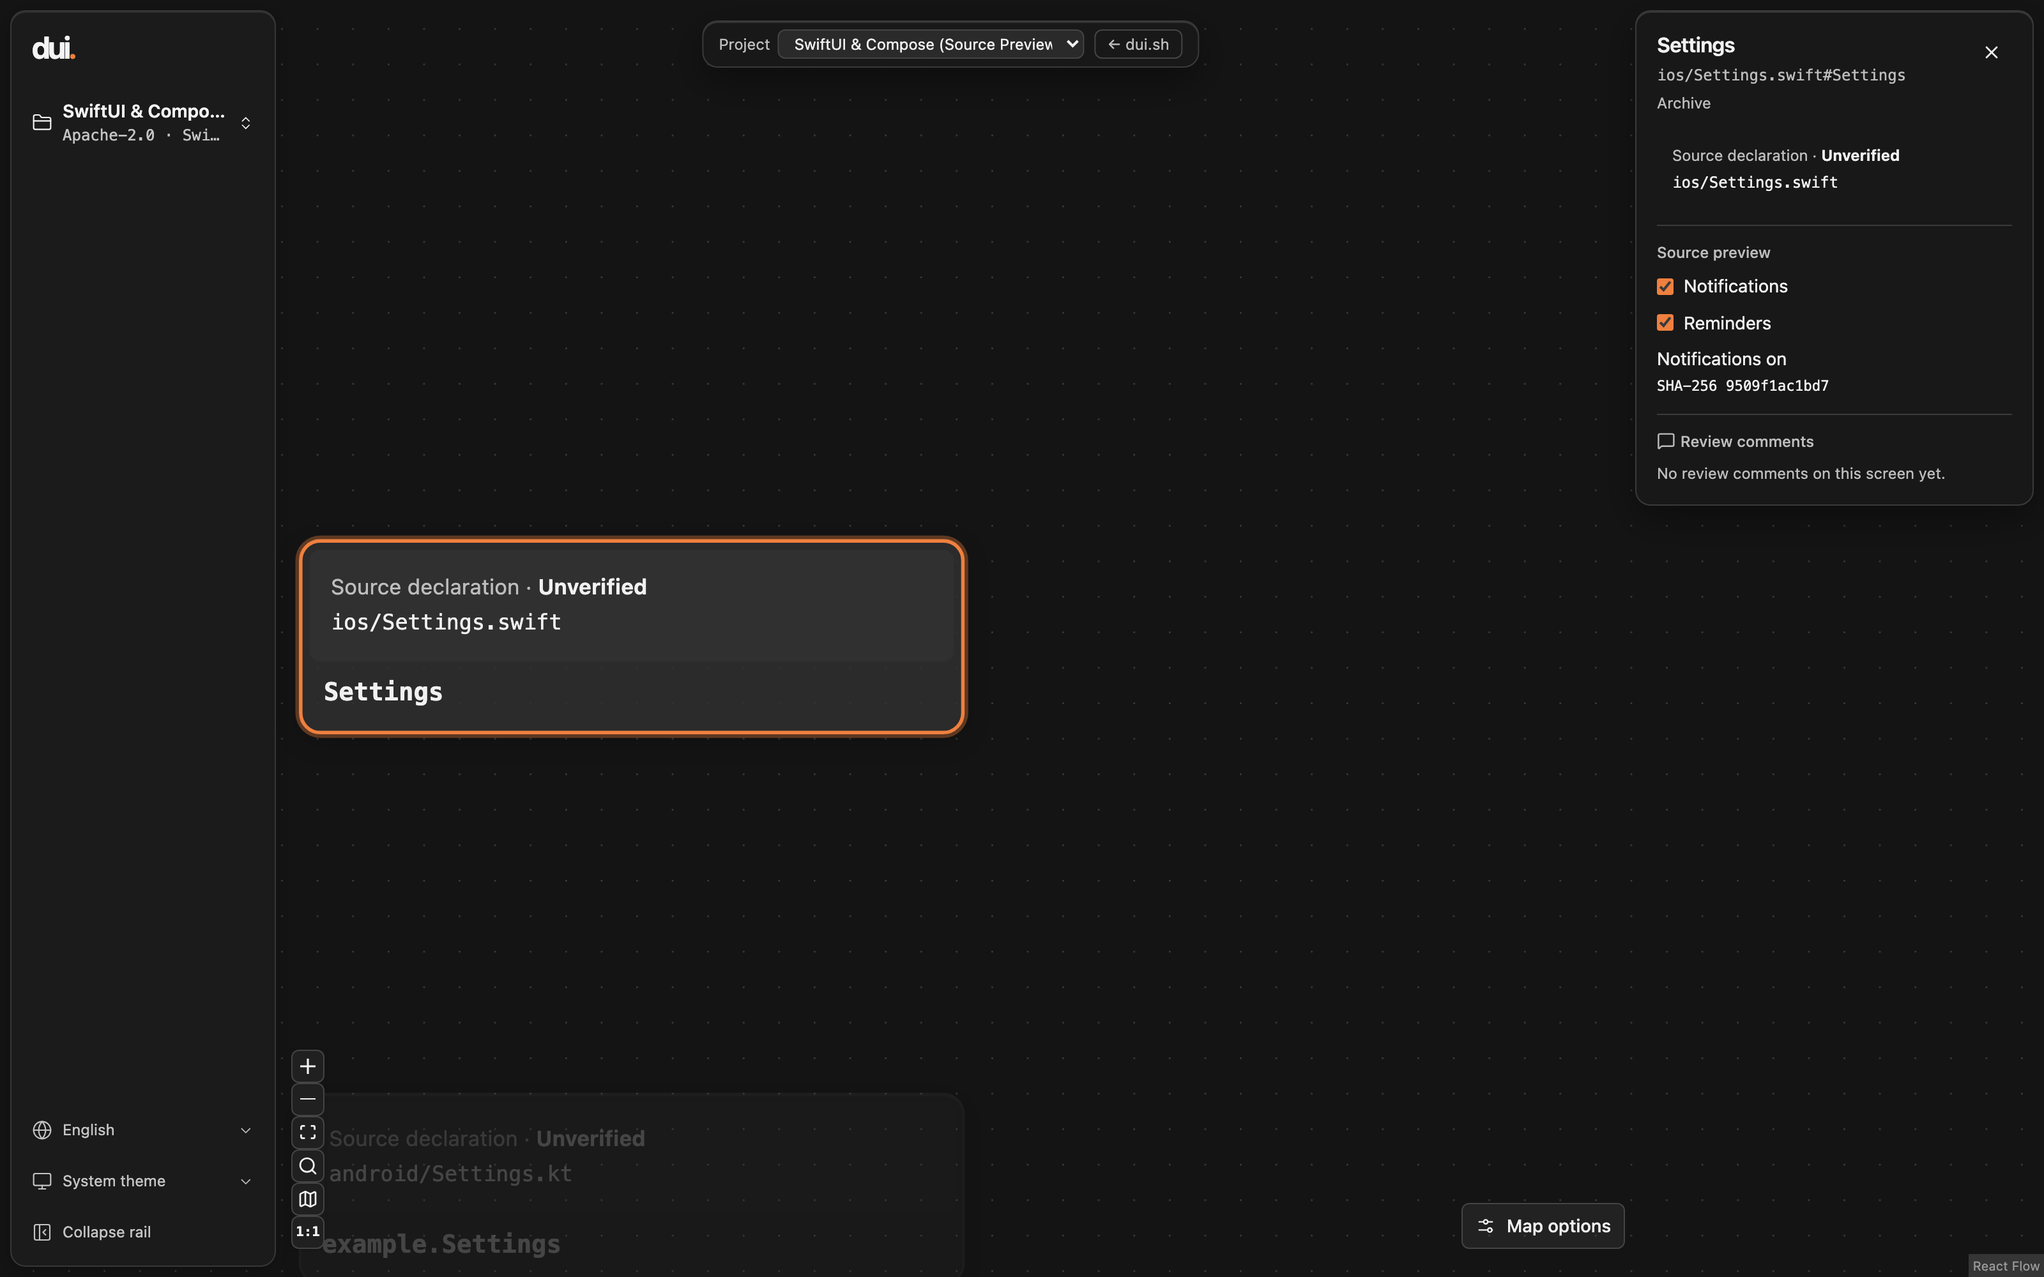
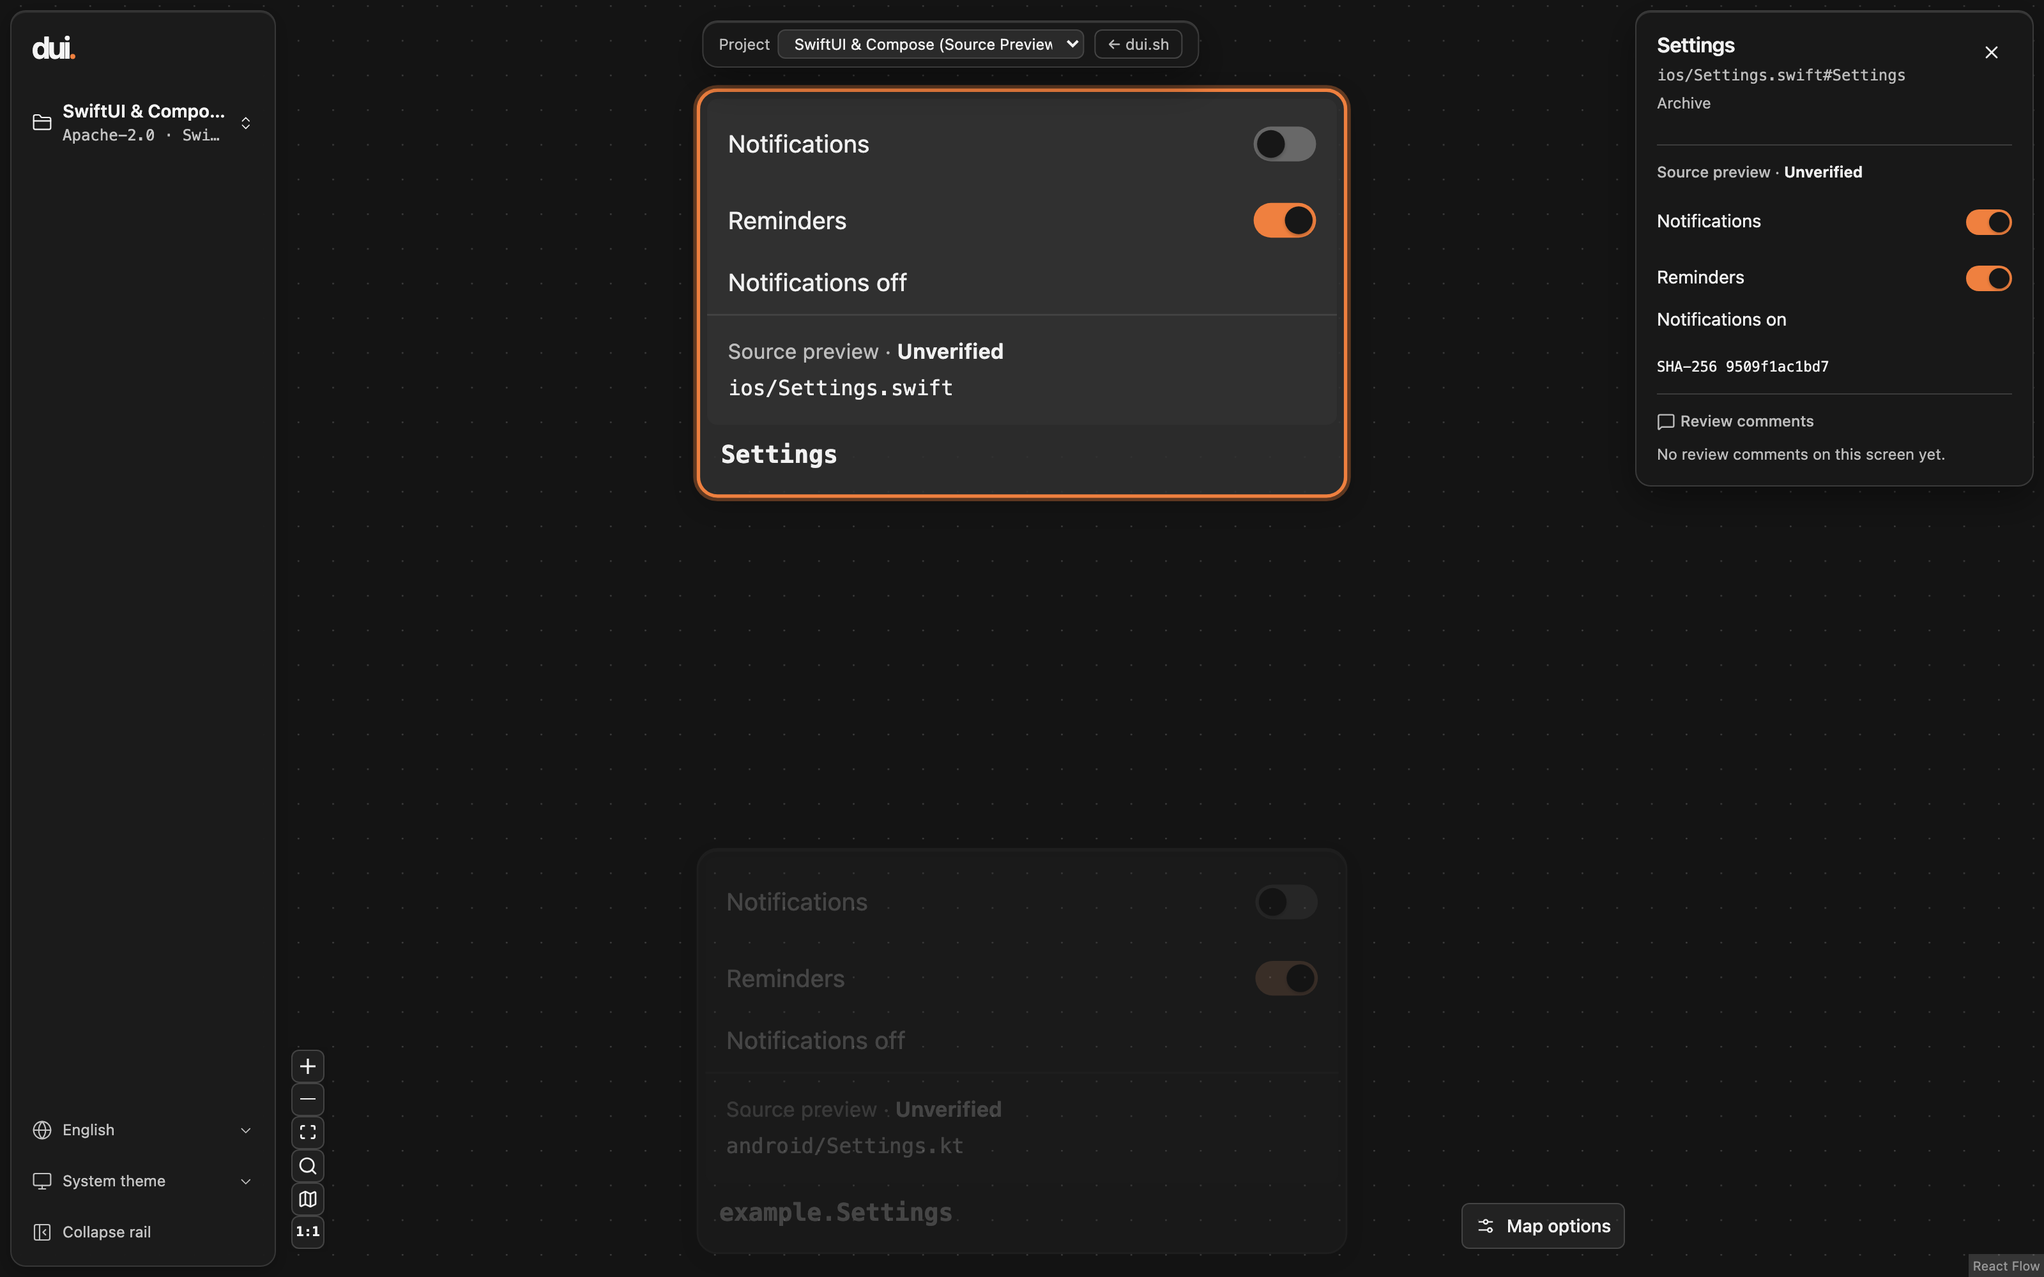
feat(canvas): show source preview snapshots on map cards
Cards with a ready source preview now draw their first observed frame
read-only, labeled "Source preview · Unverified" with the source path,
on the desktop map and the mobile deck. Missing, stale and unsupported
previews show their reason on the card. The inspector no longer repeats
the declaration block, and observed toggles render as switches.

Closes #262

diff --git a/apps/canvas/src/components/SourcePreviewPanel.tsx b/apps/canvas/src/components/SourcePreviewPanel.tsx
@@ -2,46 +2,53 @@ import { useState } from "react";
 import type { PreviewItem, SourcePreview } from "../data/sourcePreview";
 import { useI18n } from "../i18n/LocaleContext";
 
-function Contents({
-  items,
+type Activate = (control: number) => void;
+
+function Toggle({
+  label,
+  checked,
+  control,
   activate,
 }: {
-  items: PreviewItem[];
-  activate: (control: number) => void;
+  label: string;
+  checked: boolean;
+  control: number;
+  activate?: Activate;
 }) {
   const { t } = useI18n();
+  // Map cards are read-only snapshots inside a clickable card; only the inspector operates them.
+  if (!activate)
+    return (
+      <span className="preview-toggle">
+        <span>{label}</span>
+        <span className="preview-switch" data-checked={checked ? "true" : "false"} />
+      </span>
+    );
+  return (
+    <label className="preview-toggle">
+      <span>{label}</span>
+      <input
+        type="checkbox"
+        role="switch"
+        className="preview-switch"
+        aria-checked={checked}
+        aria-label={label || t.previewSwitch(control + 1)}
+        checked={checked}
+        onChange={() => activate(control)}
+      />
+    </label>
+  );
+}
+
+function Contents({ items, activate }: { items: PreviewItem[]; activate?: Activate }) {
   return items.map((item, i) => {
     if (item.kind === "text") return <span key={i}>{item.text}</span>;
-    if (item.kind === "switch")
-      return (
-        <label key={i}>
-          <input
-            type="checkbox"
-            role="switch"
-            aria-checked={item.checked}
-            aria-label={item.label || t.previewSwitch(item.control + 1)}
-            checked={item.checked}
-            onChange={() => activate(item.control)}
-          />
-          {item.label}
-        </label>
-      );
+    if (item.kind === "switch") return <Toggle key={i} {...item} activate={activate} />;
     // The Compose adapter emits a text caption beside its switch in a Row.
     const caption = item.children.find((child) => child.kind === "text");
     const toggle = item.children.find((child) => child.kind === "switch");
     if (item.kind === "row" && item.children.length === 2 && toggle && !toggle.label && caption)
-      return (
-        <label key={i}>
-          {caption.text}
-          <input
-            type="checkbox"
-            role="switch"
-            aria-checked={toggle.checked}
-            checked={toggle.checked}
-            onChange={() => activate(toggle.control)}
-          />
-        </label>
-      );
+      return <Toggle key={i} {...toggle} label={caption.text} activate={activate} />;
     return (
       <div key={i} className={"preview-" + item.kind}>
         <Contents items={item.children} activate={activate} />
@@ -49,13 +56,28 @@ function Contents({
     );
   });
 }
+
+/** The first observed frame, drawn without controls for map cards. */
+export function SourcePreviewSnapshot({ items }: { items: PreviewItem[] }) {
+  return (
+    <div className="source-preview-snapshot preview-column" aria-hidden="true">
+      <Contents items={items} />
+    </div>
+  );
+}
+
 export function SourcePreviewPanel({ preview }: { preview: SourcePreview }) {
   const { t } = useI18n();
   const [index, setIndex] = useState(0);
   const frame = preview.status === "ready" ? preview.frames[index] : undefined;
   return (
     <section className="source-preview-panel inspector-section" aria-label={t.sourcePreview}>
-      <h3>{t.sourcePreview}</h3>
+      <h3>
+        {t.sourcePreview} ·{" "}
+        <span className="capture-status" data-status="unverified">
+          {t.unverified}
+        </span>
+      </h3>
       {preview.status === "ready" && frame ? (
         <>
           <div className="preview-column">

diff --git a/site/site.js b/site/site.js
@@ -101,9 +101,9 @@
         "2D Inline Diff: Compare captures directly on the map with element-level change highlights, pixel-difference overlays, and screen verification evidence.",
       tabSourcePreview: "SwiftUI & Compose",
       tabSourcePreviewAlt:
-        "dui source map with compiled SwiftUI and Compose component cards and interactive switches in the inspector",
+        "dui source map whose compiled SwiftUI and Compose cards show their first observed frame, with the switches operated in the inspector",
       tabSourcePreviewCaption:
-        "Portable Source Preview: Compile self-contained SwiftUI and Compose entries with their official toolchains and operate observed switches directly on the map.",
+        "Portable Source Preview: Compile self-contained SwiftUI and Compose entries with their official toolchains. Each card shows the first observed frame; operate its switches in the inspector.",
       tabDesktopOverview: "macOS Desktop",
       tabDesktopOverviewAlt:
         "dui native GPUI macOS desktop viewer with transparent TitleBar, 11-screen full-page map, screen search, and gutter edges",
@@ -196,7 +196,7 @@
       tabSourcePreviewAlt:
         "공식 컴파일러로 빌드한 SwiftUI·Compose 컴포넌트 카드와 인스펙터의 조작 가능한 스위치를 보여 주는 소스 지도",
       tabSourcePreviewCaption:
-        "포터블 소스 미리보기: SwiftUI·Compose 컴포넌트를 공식 툴체인으로 컴파일해, 관찰된 스위치를 지도 카드에서 바로 조작합니다.",
+        "포터블 소스 미리보기: SwiftUI·Compose 컴포넌트를 공식 툴체인으로 컴파일합니다. 카드에는 관찰된 첫 화면이 보이고, 스위치는 인스펙터에서 조작합니다.",
       tabDesktopOverview: "macOS 데스크톱",
       tabDesktopOverviewAlt:
         "투명 TitleBar, 11개 전체 페이지 지도, 화면 검색, 거터 연결선을 갖춘 네이티브 GPUI macOS 데스크톱 뷰어",
@@ -289,7 +289,7 @@
       tabSourcePreviewAlt:
         "展示经官方工具链编译的 SwiftUI 与 Compose 组件卡片及检查器内可交互开关的 dui 源码地图",
       tabSourcePreviewCaption:
-        "便携式源码预览：使用官方工具链编译自包含的 SwiftUI 与 Compose 组件，在界面地图卡片上直接操作已观测到的开关。",
+        "便携式源码预览：使用官方工具链编译自包含的 SwiftUI 与 Compose 组件。卡片显示观测到的首个画面，开关在检查器中操作。",
       tabDesktopOverview: "macOS 桌面端",
       tabDesktopOverviewAlt:
         "带有透明 TitleBar、11 个整页界面地图、界面搜索与避让通道连线的原生 GPUI macOS 桌面查看器",

diff --git a/apps/canvas/src/preview.css b/apps/canvas/src/preview.css
@@ -319,6 +319,7 @@ h2 {
 .source-frame {
   background: var(--muted);
   border-radius: var(--radius-control);
+  overflow: hidden;
 }
 .native-source-evidence {
   display: grid;
@@ -2625,23 +2626,95 @@ h2 {
   height: auto;
 }
 
-.source-preview-panel .preview-column,
-.source-preview-panel .preview-row,
-.source-preview-panel label {
+.preview-column,
+.preview-row {
   display: flex;
   gap: var(--space-2);
+  min-width: 0;
 }
-.source-preview-panel .preview-column {
+.preview-column {
   flex-direction: column;
 }
-.source-preview-panel .preview-row,
-.source-preview-panel label {
+.preview-row {
   align-items: center;
 }
-.source-preview-panel label {
+/* Outranks `.inspector label`, which stacks form labels. */
+.preview-column .preview-toggle {
+  display: flex;
+  align-items: center;
+  justify-content: space-between;
+  gap: var(--space-3);
+  min-height: 2.75rem;
   margin: 0;
 }
+.preview-switch {
+  appearance: none;
+  position: relative;
+  flex: none;
+  width: 2.25rem;
+  height: 1.25rem;
+  margin: 0;
+  border-radius: 999px;
+  background: color-mix(in srgb, var(--muted-foreground) 40%, transparent);
+  transition: background-color 120ms ease;
+}
+.preview-switch::before {
+  content: "";
+  position: absolute;
+  top: 0.125rem;
+  left: 0.125rem;
+  width: 1rem;
+  height: 1rem;
+  border-radius: 999px;
+  background: var(--background);
+  box-shadow: 0 1px 2px rgb(0 0 0 / 0.25);
+  transition: transform 120ms ease;
+}
+.preview-switch:checked,
+.preview-switch[data-checked="true"] {
+  background: var(--primary);
+}
+.preview-switch:checked::before,
+.preview-switch[data-checked="true"]::before {
+  transform: translateX(1rem);
+}
+.preview-switch:focus-visible {
+  outline: 2px solid var(--ring);
+  outline-offset: 2px;
+}
+input.preview-switch {
+  cursor: pointer;
+}
+@media (prefers-reduced-motion: reduce) {
+  .preview-switch,
+  .preview-switch::before {
+    transition: none;
+  }
+}
 .source-preview-panel {
-  accent-color: var(--primary);
   overflow-wrap: anywhere;
+}
+.source-preview-panel .preview-column {
+  gap: 0;
+  margin-bottom: var(--space-2);
+}
+.source-preview-snapshot {
+  gap: 0;
+  padding: var(--space-2) var(--space-3);
+  border-bottom: 1px solid var(--border);
+  color: var(--foreground);
+  overflow-wrap: anywhere;
+}
+.source-preview-snapshot.preview-column .preview-toggle {
+  min-height: 2.25rem;
+}
+.source-preview-reason {
+  margin: 0;
+  padding: 0 var(--space-3) var(--space-3);
+  color: var(--muted-foreground);
+  font-size: var(--text-meta);
+  overflow-wrap: anywhere;
+}
+.source-preview-reason code {
+  font-family: var(--font-mono);
 }

diff --git a/apps/canvas/src/components/NativeSourceEvidence.tsx b/apps/canvas/src/components/NativeSourceEvidence.tsx
@@ -1,18 +1,45 @@
 import type { NativeSource } from "../data/overview";
+import type { SourcePreview } from "../data/sourcePreview";
 import { useI18n } from "../i18n/LocaleContext";
+import { SourcePreviewSnapshot } from "./SourcePreviewPanel";
+
+/** Map card body for a declaration without a capture: its preview snapshot, if any, then its evidence. */
+export function SourceCardBody({
+  source,
+  preview,
+}: {
+  source: NativeSource;
+  preview?: SourcePreview;
+}) {
+  const { t } = useI18n();
+  const frame = preview?.status === "ready" ? preview.frames[0] : undefined;
+  return (
+    <>
+      {frame && <SourcePreviewSnapshot items={frame.items} />}
+      <NativeSourceEvidence source={source} sourceOnly preview={Boolean(frame)} />
+      {preview && preview.status !== "ready" && (
+        <p className="source-preview-reason">
+          <strong>{t.previewStatus[preview.status]}</strong> · <code>{preview.reason}</code>
+        </p>
+      )}
+    </>
+  );
+}
 
 export function NativeSourceEvidence({
   source,
   sourceOnly,
+  preview = false,
 }: {
   source: NativeSource;
   sourceOnly: boolean;
+  preview?: boolean;
 }) {
   const { t } = useI18n();
   return (
     <div className="native-source-evidence">
       <span>
-        {t.sourceDeclaration}
+        {preview ? t.sourcePreview : t.sourceDeclaration}
         {sourceOnly && (
           <>
             {" "}

diff --git a/apps/canvas/src/features/map/MobileScreenDeck.tsx b/apps/canvas/src/features/map/MobileScreenDeck.tsx
@@ -1,5 +1,5 @@
 import { ArrowRight, Search, Layers, Map as MapIcon } from "lucide-react";
-import { DiscoveryLimitations, NativeSourceEvidence } from "../../components/NativeSourceEvidence";
+import { DiscoveryLimitations, SourceCardBody } from "../../components/NativeSourceEvidence";
 import { Button } from "../../components/ui/button";
 import type { Screen, ScreenMap as Archive } from "../../data/overview";
 import { useI18n } from "../../i18n/LocaleContext";
@@ -164,7 +164,9 @@ export function MobileScreenDeck({
                 </div>
 
                 {screen.nativeSource && !cell && !src && (
-                  <NativeSourceEvidence source={screen.nativeSource} sourceOnly />
+                  <div className="source-frame">
+                    <SourceCardBody source={screen.nativeSource} preview={screen.sourcePreview} />
+                  </div>
                 )}
                 {src && (
                   <div className="mobile-deck-frame">

diff --git a/apps/canvas/src/features/map/CaptureCard.tsx b/apps/canvas/src/features/map/CaptureCard.tsx
@@ -1,5 +1,5 @@
 import { useState } from "react";
-import { NativeSourceEvidence } from "../../components/NativeSourceEvidence";
+import { SourceCardBody } from "../../components/NativeSourceEvidence";
 import { MapCardGuides } from "./MapCardGuides";
 import type { Cell, Screen } from "../../data/overview";
 import { useI18n } from "../../i18n/LocaleContext";
@@ -139,7 +139,7 @@ export function CaptureCard({
             }}
           />
         ) : sourceCard ? (
-          <NativeSourceEvidence source={sourceCard} sourceOnly />
+          <SourceCardBody source={sourceCard} preview={screen.sourcePreview} />
         ) : (
           <div className="missing-frame-copy">
             <span>{cell ? "Missing image" : "No capture at this width"}</span>

diff --git a/apps/canvas/src/features/inspector/ScreenInspector.tsx b/apps/canvas/src/features/inspector/ScreenInspector.tsx
@@ -138,7 +138,7 @@ export function ScreenInspector({
             cell={{ state: cell.state, width: cell.width }}
           />
         )}
-      {screen?.nativeSource && (
+      {screen?.nativeSource && !screen.sourcePreview && (
         <NativeSourceEvidence
           source={screen.nativeSource}
           sourceOnly={rawScreenCells.length === 0}

diff --git a/docs/ko/web-viewer.md b/docs/ko/web-viewer.md
@@ -108,7 +108,7 @@ GitHub의 **Compare base and head captures** 검사는 PR이 열리거나 갱신
 }
 ```
 
-`dui map .`과 `dui open`을 차례로 실행한 뒤 카드를 선택하면 관찰된 스위치를 조작할 수 있다. 지도 생성에는 Node 26과 Swift 6 또는 Kotlin 2/JDK가 필요하다. 저장한 지도를 열 때는 뷰어만 있으면 된다. 아카이브에는 소스 SHA-256, 레이아웃 요소와 관찰된 전이가 저장된다. 뷰어는 이 데이터를 텍스트와 컨트롤로 표시한다.
+`dui map .`과 `dui open`을 차례로 실행한다. 미리보기가 준비된 카드는 관찰된 첫 화면을 읽기 전용으로 보여 주고, 소스 경로와 함께 **소스 미리보기 · 미검증**으로 표시한다. 카드를 선택하면 인스펙터에서 관찰된 스위치를 조작할 수 있다. 지도 생성에는 Node 26과 Swift 6 또는 Kotlin 2/JDK가 필요하다. 저장한 지도를 열 때는 뷰어만 있으면 된다. 아카이브에는 소스 SHA-256, 레이아웃 요소와 관찰된 전이가 저장된다. 뷰어는 이 데이터를 텍스트와 컨트롤로 표시한다.
 
 카드의 식별자는 프로젝트, 소스 파일, 정규화된 진입점 이름으로 결정된다. 파일 누락 또는 미지원 호출은 해당 카드에 원인이 표시된다. 해당 로컬 프로젝트에서 보관된 지도를 열면 현재 선언과 소스 해시도 확인한다. 변경 후에는 `dui map .`을 다시 실행한다. 소스 미리보기의 네이티브 캡처 시도와 검증 횟수는 모두 0이다. 네이티브 캡처는 정확한 스냅샷 ID와 화면 ID를 지정해 `dui map attach`로 연결한다.
 

diff --git a/docs/en/web-viewer.md b/docs/en/web-viewer.md
@@ -108,7 +108,7 @@ In a trusted local project, declare self-contained SwiftUI or Compose source ent
 }
 ```
 
-Run `dui map .`, then `dui open`. Select a card to operate its observed switches. Mapping needs Node 26 and Swift 6 or Kotlin 2 with a JDK. Opening the saved map only needs the viewer. The archive stores the source SHA-256, layout primitives and observed transitions. The viewer interprets those primitives as text and controls.
+Run `dui map .`, then `dui open`. Each ready card shows its first observed frame read-only, labeled **Source preview · Unverified** with its source path. Select a card to operate its observed switches in the inspector. Mapping needs Node 26 and Swift 6 or Kotlin 2 with a JDK. Opening the saved map only needs the viewer. The archive stores the source SHA-256, layout primitives and observed transitions. The viewer interprets those primitives as text and controls.
 
 Each card is scoped to its project, source file and qualified entry. A missing source or unsupported call leaves a reason on its card. Opening the archive from the corresponding local project also checks the current declarations and source digests. Run `dui map .` again after changes. Previews contribute zero native capture attempts or verifications. A native recording uses the existing `dui map attach` workflow with the exact snapshot and screen IDs.
 

diff --git a/docs/zh-CN/web-viewer.md b/docs/zh-CN/web-viewer.md
@@ -108,7 +108,7 @@ GitHub 的 **Compare base and head captures** 检查在 PR 打开或更新时运
 }
 ```
 
-依次运行 `dui map .` 和 `dui open`，选择卡片即可操作观测到的开关。生成地图需要 Node 26 以及 Swift 6 或 Kotlin 2/JDK。打开已保存的地图只需要查看器。归档保存源文件 SHA-256、布局元素及观测到的状态转换。查看器将这些数据呈现为文本和控件。
+依次运行 `dui map .` 和 `dui open`。预览就绪的卡片以只读方式显示观测到的首个画面，并连同源文件路径标注为 **源码预览 · 未验证**。选择卡片即可在检查器中操作观测到的开关。生成地图需要 Node 26 以及 Swift 6 或 Kotlin 2/JDK。打开已保存的地图只需要查看器。归档保存源文件 SHA-256、布局元素及观测到的状态转换。查看器将这些数据呈现为文本和控件。
 
 卡片标识由项目、源文件和限定入口名决定。缺少源文件或遇到不支持的调用时，对应卡片会显示原因。从相应的本地项目打开归档时还会检查当前声明和源文件摘要。更改后再次运行 `dui map .`。源码预览的原生捕获尝试数和验证数均为零。通过 `dui map attach` 关联原生录制时须指定匹配的快照 ID 和屏幕 ID。
 
